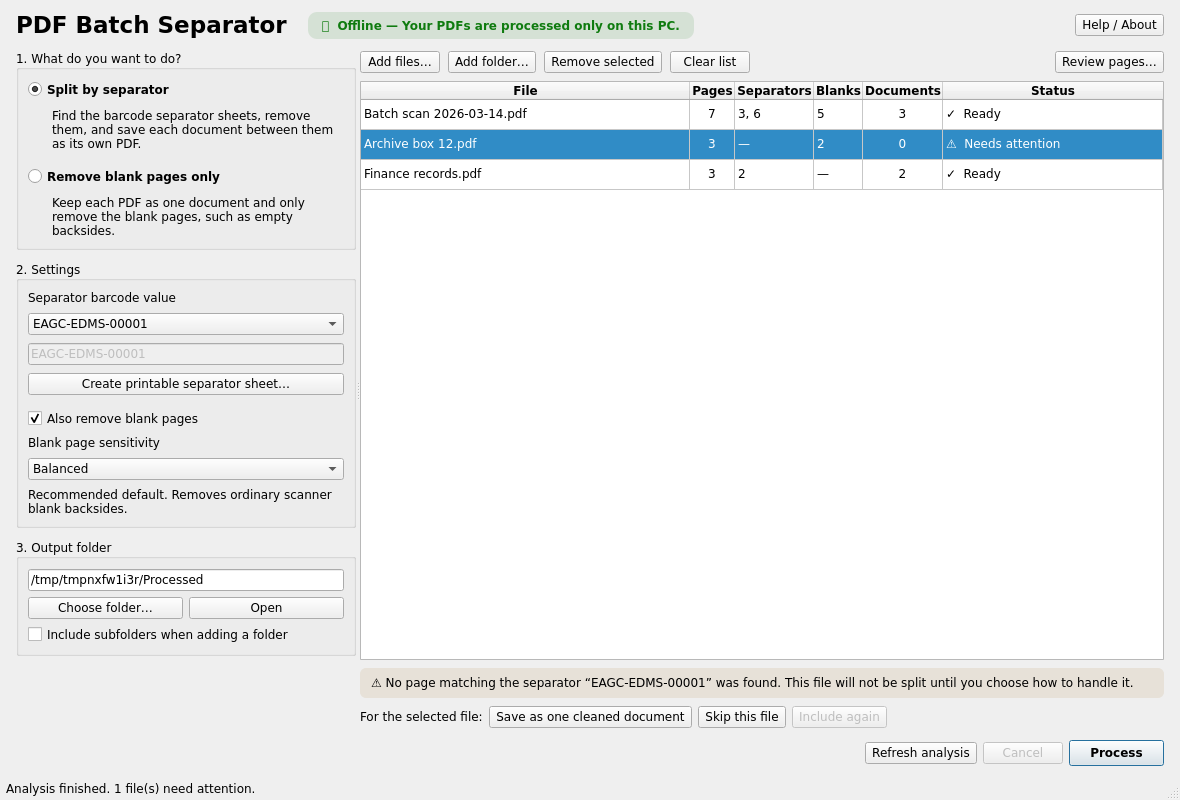
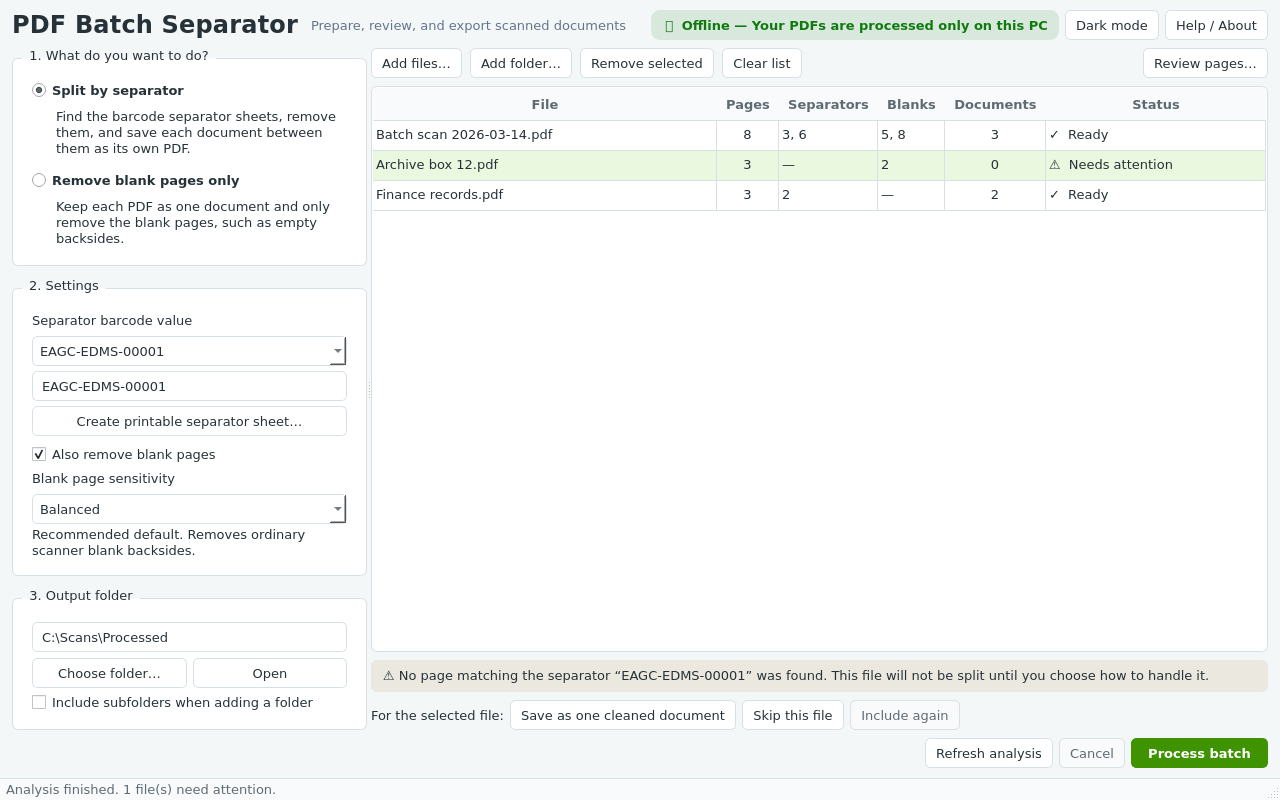
Update README with new design screenshots
Regenerate the main-window screenshot from the redesigned UI, add a dark
mode capture and refresh the review dialog capture, and reference them
from the README.

diff --git a/README.md b/README.md
@@ -12,7 +12,21 @@ Everything happens on the local machine. There is no server, no cloud account,
 no browser, and no internet connection required — and no Python, Poppler, ZBar
 or Tesseract for the end user to install.
 
-![Main window](docs/screenshot-main.png)
+![Main window — the redesigned light theme](docs/screenshot-main.png)
+
+The redesigned interface keeps the whole workflow on one screen: choose the
+mode, adjust the settings, pick the output folder, and watch every file's
+status in the batch table. A one-click toggle switches between the light and
+dark appearance.
+
+<details>
+<summary>More screenshots — dark mode and the page review dialog</summary>
+
+![Main window in dark mode](docs/screenshot-dark.png)
+
+![Page review dialog with per-page thumbnails](docs/screenshot-review.png)
+
+</details>
 
 ---
 
@@ -291,7 +305,8 @@ pdf-batch-separator/
 │   └── ui/
 │       ├── main_window.py
 │       ├── batch_model.py
-│       └── document_review.py
+│       ├── document_review.py
+│       └── theme.py            # light/dark visual system
 ├── tests/                      # 233 automated tests
 ├── packaging/
 │   ├── app.spec                # PyInstaller
